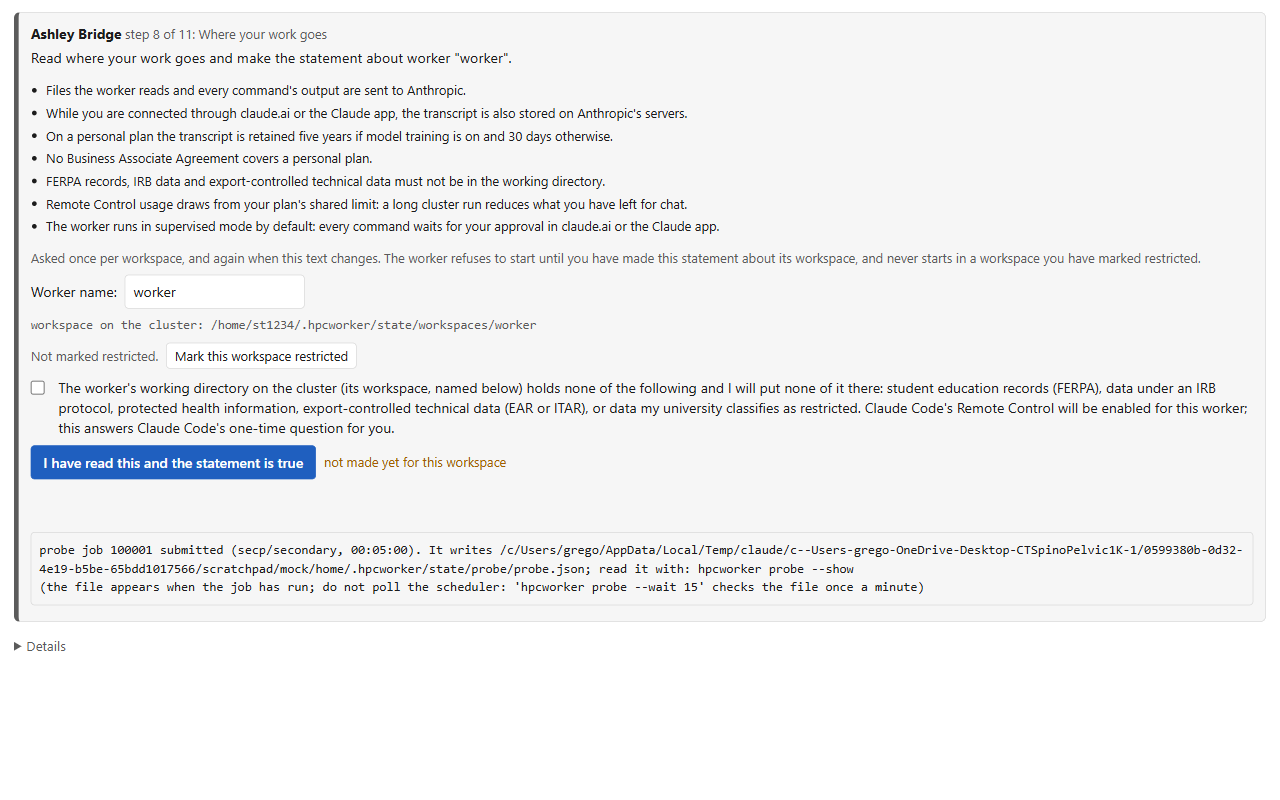
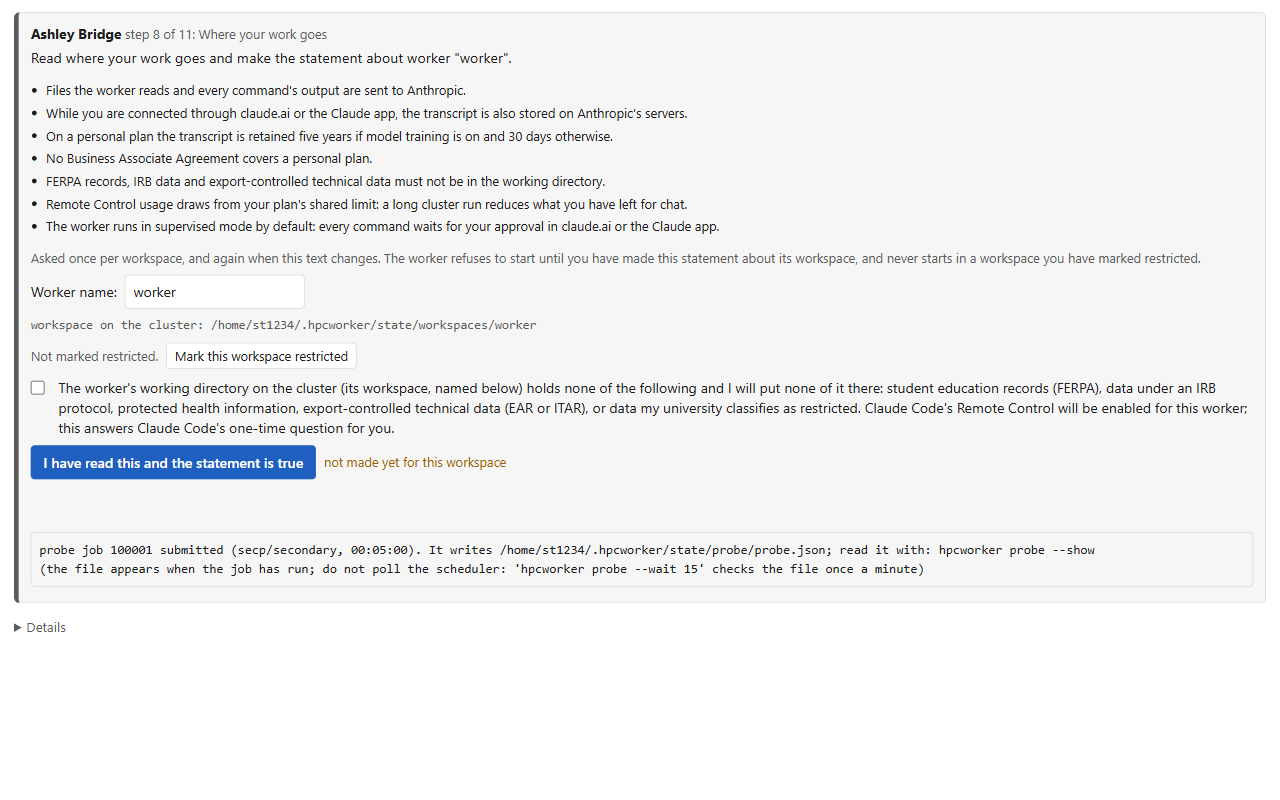
Store screenshots recaptured: neutral home path in the mock (MOCK_DISPLAY_HOME, default /home/<user>), check 1 OK from the live kill-list, settled states

Changed region(s): [[0.0312, 0.6562, 0.875, 0.75], [0.0, 0.75, 0.0625, 0.8125], [0.9062, 0.6562, 0.9375, 0.7188]]

diff --git a/extension/README.md b/extension/README.md
@@ -205,14 +205,18 @@ Claude Code 2.1.283). Its `claude login --plain` prints the framework's lines (`
 instead of 404 on `/rnode/`), `--no-clusters` (the shell closes 3146 "No clusters defined."), `--cold` (first request
 bounces through `/nginx/init`), `--cold-pun MS` (the first `/pun/` request after MS ms of quiet answers 500 once, as
 the live portal's per-user nginx does), `--job-composer`, `--no-cookie`, `--cert F --key F` (https with your own
-self-signed pair, e.g. from `openssl req -x509 -newkey ed25519 -nodes -keyout key.pem -out cert.pem -subj /CN=localhost -days 30`).
+self-signed pair, e.g. from `openssl req -x509 -newkey ed25519 -nodes -keyout key.pem -out cert.pem -subj /CN=localhost -days 30`),
+`--display-home DIR` (the home the seeded tool prints and records in place of the mock home's real path; by default the
+portal's own `/home/<user>`, so the strip's output box reads like a cluster wherever the mock home sits on disk).
 A `?download=1` of a file that does not exist answers 200 with an HTML page, as the live Files app does.
 
 Environment variables the seeded tool reads (set them for the mock server's process): `MOCK_LOGGED_IN=false`
 (the probe reports no Claude sign-in), `MOCK_CONSENT=false` (the probe reports no Remote Control answer on record),
 `MOCK_EGRESS=none` (the probe reports no egress; `http-proxy-auto` is also accepted), `MOCK_ENV_ID=env_01...`
 (the environment id in the registration block; by default one stable id per mock home, as Claude Code keys it
-to the machine), `MOCK_LOGIN_FAIL=1` (the plain sign-in ends with `HPCW-LOGIN-FAILED` whatever code is typed). The
+to the machine), `MOCK_LOGIN_FAIL=1` (the plain sign-in ends with `HPCW-LOGIN-FAILED` whatever code is typed),
+`MOCK_DISPLAY_HOME=/home/st1234` (the same as `--display-home`: the tool's sentences, `status.json` and `connection.json`
+carry this home in place of the real one; the files themselves stay where they are). The
 mock's `worker start` refuses a workspace holding `.restricted`, its `worker stop` writes `stop.done`, and its
 `claude login` without `--plain` explains the one-sitting flow (`claude consent` is an alias that explains).
 
